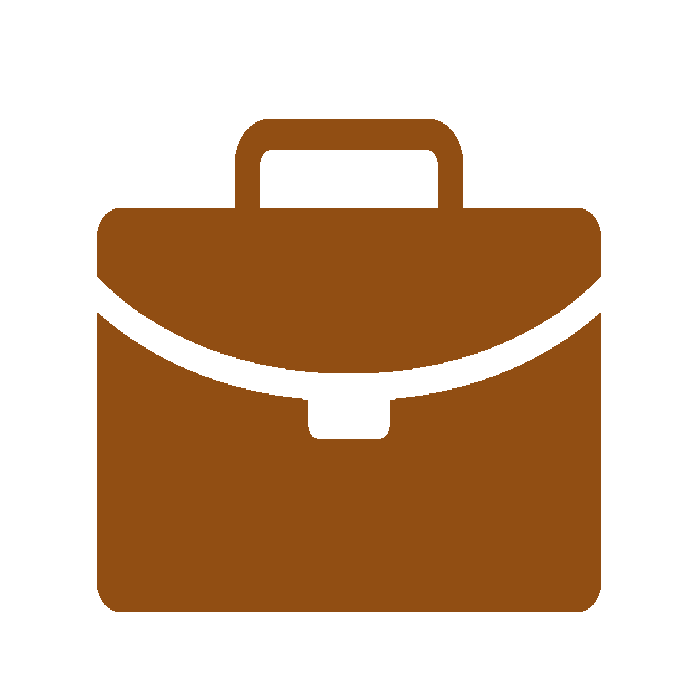
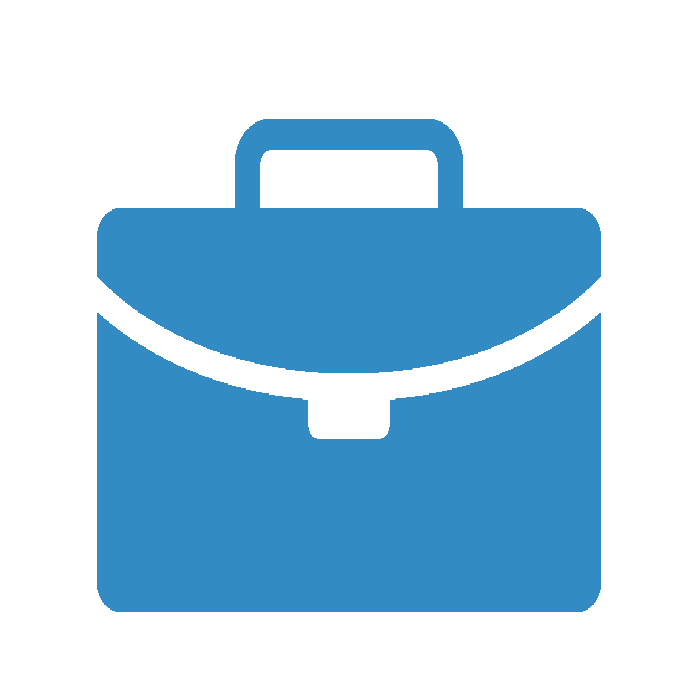
changement de couleurs en cours

diff --git a/css/style.css b/css/style.css
@@ -1,12 +1,28 @@
-body{
-    font-family: 'Lato', sans-serif;
-    height: 100vh;
-}
 html{
     scroll-behavior: smooth;
 }
 *{
     box-sizing: border-box;
+}
+:root{
+    --text-color: #fbfefd;
+    --background-color: #1f2531;
+    --lightgrey-color:#2A303C;
+    --yelow-color: #d9b311;
+    --midyelow1-color: #d9b41171;
+    --midyelow2-color: #d9b41188;
+    --lowyelow-color: #d9b41118;
+    --darkerblue-color:#0b3c5d;
+    --ligtherblue-color:#328bc3;
+    --border-radius: 6px;
+}
+body{
+    font-family: 'Inter', sans-serif;
+    color: var(--text-color);
+    height: 100vh;
+}
+a{
+    color: var(--text-color);
 }
 #map {
     margin-top: 30px;
@@ -18,7 +34,7 @@ div#wrapper{
     height: 100vh;
     display: flex;
     justify-content: center;
-    background: linear-gradient(160deg, rgb(2, 2, 44), rgb(94, 69, 40));
+    background: var(--background-color);
 }
 ::-webkit-scrollbar{
     width: 10px;
@@ -33,9 +49,6 @@ div#wrapper{
 }
 ::-webkit-scrollbar-thumb:hover {
     background: #555;
-}
-.flex{
-    display: flex;
 }
 /*----------------------------------------------Container------------------------------------*/
 
@@ -56,8 +69,9 @@ div.container{
 header.header{
     width: 4.5rem;
     height: 20rem;
-    background-color: aliceblue;
-    border-radius: 5px;
+    background-color: var(--lowyelow-color);
+    border: 1px solid var(--darkerblue-color);
+    border-radius: var(--border-radius);
     z-index: 6;
     display: flex;
     justify-content: center;
@@ -92,7 +106,7 @@ header .header_list-link{
     background-repeat: no-repeat;
     background-position: center 40%;  
     text-transform: uppercase;
-    filter: grayscale(100%);
+    /* filter: grayscale(100%); */
     font-size: 0.6em;
 }
 header .header_list-link>p{
@@ -103,11 +117,11 @@ header .header_list-link>p{
 }
 header .header_list-activ{
     filter: none;
-    color: #bd6604;
+    color: var(--yelow-color);
 }
 header .header_list-link:hover{
     filter: none;
-    color: #bd6604;
+    color: var(--yelow-color);
 }
 header .header_list .border{
     border-top:1px solid ;
@@ -131,9 +145,7 @@ header .resume_bg{
     position: relative;
     width: 38%;
     height: 100%;
-    border-radius: 5px;
-    box-shadow: -16px -16px rgb(84, 90, 85);
-    background-color: #ddd;
+    /* box-shadow: -8px -16px rgb(84, 90, 85); */
     font-size: 1rem;
 }
 #profil .profil_wrapper{
@@ -146,7 +158,9 @@ header .resume_bg{
     flex-direction: column;
     align-items: center;
     justify-content: center;
-    box-shadow: 5px 0px 20px rgba(158, 158, 158, 0.4);
+    background-color: var(--lightgrey-color);
+    border-radius: var(--border-radius);
+    /* box-shadow: 5px 0px 20px rgba(158, 158, 158, 0.4); */
 }
 /* Position de la photo de profil*/
 #profil .profil_picture{
@@ -170,7 +184,7 @@ header .resume_bg{
     height: 70%;
     content: '';
     position: absolute;
-    background: #ddd;
+    background: var(--lightgrey-color);
     transform: rotate(12deg);
     -webkit-transform: rotate(12deg);
 }
@@ -185,7 +199,7 @@ header .resume_bg{
     -webkit-transform: rotate(-8deg);
     content: '';
     position: absolute;
-    background: #ddd;
+    background: var(--lightgrey-color);
 }
 /*Bloc qui gère le texte sous la photo de profil*/
 #profil .profil_text{
@@ -197,9 +211,13 @@ header .resume_bg{
 /* Nom de famille*/
 #profil .title_clem{
     font-size: min(max(20px, 2vw), 2em);
-    font-weight: 500;
+    font-weight: 600;
     margin-bottom: 10px;
-    text-shadow: 1px 2px 2px #c4b2a1, 2px 4px 3px #c4b2a1, 3px 5px 3px #c4b2a1;
+}
+#profil .nom{
+    background: -webkit-linear-gradient(45deg, var(--yelow-color) , var(--ligtherblue-color) );
+    -webkit-background-clip: text;
+    -webkit-text-fill-color: transparent;
 }
 /* Mise en place de le navigation liens sociaux*/
 #profil ul.social_link{
@@ -223,33 +241,19 @@ header .resume_bg{
 }
 #profil .download{
     position: relative;
-    color: black;
     text-decoration: none;
-    padding: 5px;
-    font-size: 1.2em;
-    text-shadow: 1px 2px 2px #c4b2a1, 2px 4px 3px #c4b2a1, 3px 5px 3px #c4b2a1;
+    padding: 10px;
+    font-size: 1.1em;
+    background-color: var(--yelow-color);
+    border-radius: var(--border-radius);
 }
-.transition::before {
-        content: '';
-        position: absolute;
-        width: 100%;
-        height: 2px;
-        border-radius: 2px;
-        background: linear-gradient(90deg, rgb(9, 9, 163), rgb(206, 113, 7));
-        bottom: 0;
-        left: 0;
-        transform-origin: right;
-        transform: scaleX(0);
-        transition: transform .3s ease-in-out;
-      }
-.transition:hover::before {
-      transform-origin: left;
-      transform: scaleX(1);
-    }
-#profil .text-anim{
-    font-weight: 600;
-    color: #925106;
-    text-shadow: 5px 8px 4px #af650fa2,0 -1px 1px #fff;
+.download:hover{
+    transition: transform;
+    transform: var(--background-color);
+}
+.auto-type{
+    /* font-weight: 600; */
+    /* text-shadow: 5px 8px 4px #af650fa2,0 -1px 1px #fff; */
 }
 /*------------------------------------------Contenu de droite-------------------------*/
 
@@ -262,7 +266,7 @@ aside#content{
 section.content_wrapper{
     width: 100%;
     height: 100%;
-    background-color: #d4d4d4;
+    background-color: var(--darkerblue-color);
     border-bottom-right-radius: 5px;
     border-top-right-radius: 5px;
     padding: 15px 15px 15px 30px;
@@ -275,15 +279,12 @@ h3.content_title{
     font-weight: 800;
     border-bottom:1px solid ;
     border-image-slice: 1; 
-    border-image-source:linear-gradient(160deg,  rgb(40, 49, 94, 0.5) , transparent 80%); 
+    border-image-source:linear-gradient(160deg,  var(--ligtherblue-color) , transparent 80%); 
     padding: 20px;
     margin: 0;
-    text-shadow: 1px 2px 2px #c4b2a1, 2px 4px 3px #c4b2a1, 3px 5px 3px #c4b2a1;
-
-
-}
-h3.content_title>span{
-    color: #bd6604;
+    background: -webkit-linear-gradient(10deg, var(--yelow-color), var(--ligtherblue-color), var(--yelow-color) 50%);
+    -webkit-background-clip: text;
+    -webkit-text-fill-color: transparent;
 }
 .content__content{
     display: flex;
@@ -294,14 +295,12 @@ h3.content_title>span{
     align-items: center;
     text-transform: uppercase;
     font-weight: 600;
-    text-shadow: 1px 2px 2px #c4b2a1, 2px 4px 3px #c4b2a1, 3px 5px 3px #c4b2a1;
-
 }
 .article{
     padding-right: 20px;
     border-top:1px solid ;
     border-image-slice: 1; 
-    border-image-source:linear-gradient(160deg, transparent 3%, rgb(40, 49, 94, 0.5) , transparent 25%); 
+    border-image-source:linear-gradient(160deg, var(--ligtherblue-color) , transparent 25%); 
 }
 /*-----------------------Contenu du lien about-----------------*/
 
@@ -389,18 +388,18 @@ section.activ{
 
 .date{
     display: inline-block;
-    border: 1px solid rgba(129, 129, 129, 0.3);
+    border: 1px solid var(--midyelow1-color);
     padding: 0 5px 0 5px;
     margin: 3em 0 0 0;
     border-radius: 5px;
-    color:rgba(129, 129, 129, 0.4) ;
+    color:var(--midyelow1-color) ;
     font-size: 0.8em;
     line-height: 20px;
     font-weight: 500;
 }
 .date_now{
-    color:rgb(189, 102, 4, 0.7) ;
-    border: 1px solid rgb(189, 102, 4, 0.7);
+    color:var(--yelow-color) ;
+    border: 1px solid var(--yelow-color);
 
 }
 .subtitle{
@@ -408,7 +407,7 @@ section.activ{
     margin: 0.5em 0 0 0;
 }
 .brand{
-    color: gray;
+    color: var(--midyelow2-color);
     margin-top: 0;
     font-size: 0.8em;
 }
@@ -454,7 +453,7 @@ ul.liste li{
 ul.liste li::marker{
     font-size: 20px;
     font-weight: 600;
-    color: rgb(189, 102, 4, 0.7);
+    color:  var(--yelow-color);
 }
 
 ul.langue_liste{
@@ -472,7 +471,7 @@ ul.langue_liste li{
 
 ul.langue_liste>li::marker{
     font-size: 40px;
-    color:  rgb(189, 102, 4, 0.7);
+    color:  var(--yelow-color);
     margin-right: 0px;
 }
 ul.langue_liste li:last-child::marker{

diff --git a/index.html b/index.html
@@ -9,6 +9,7 @@
     <link rel="preconnect" href="https://fonts.googleapis.com">
     <link rel="preconnect" href="https://fonts.gstatic.com" crossorigin>
     <link href="https://fonts.googleapis.com/css2?family=Lato&display=swap" rel="stylesheet">
+    <link href="https://fonts.googleapis.com/css2?family=Inter:wght@500&display=swap" rel="stylesheet">
     <script src="https://polyfill.io/v3/polyfill.min.js?features=default"></script>
     <script type="module" src="./App/index.js"></script>
     
@@ -47,7 +48,7 @@
                 <div class="profil_wrapper">
                     <div class="profil_picture"></div>
                         <div class="profil_text">
-                            <h2 class="title_clem">Clément Jamgotchian</h2>   
+                            <h2 class="title_clem">Clément <span class="nom">Jamgotchian</span></h2>   
                             <p class="text-anim">Développeur <span class="auto-type"></span></p>
                             <ul class="social_link">
                                 <li><a href="https://github.com/Clement-Jamgotchian"><img src="/img/github.png" alt="Le logo du réseau Github" class="bg_link"></a></li>
@@ -66,7 +67,7 @@
                 <section class="content_wrapper about" id="about">
                     <section class="content__content">
                         <div>
-                            <h3 class="content_title"><span>About</span> Me</h3>
+                            <h3 class="content_title">About Me</h3>
                             <div class="about_me">
                                 <div style="width:50%"">
                                     <p>Bonjour et bienvenue ! 
@@ -105,7 +106,7 @@
                 <section class="content_wrapper resume activ" id="resume">
                     <section class="content__content">
                         <div>
-                            <h3 class="content_title"><span>R</span>esume</h3>
+                            <h3 class="content_title">Resume</h3>
                             <div class="content__resume">
                                 <div class="content__resume-div">
                                     <h4 class="title_h4-upper"><img src="/img/bagage.png" style="width: 25px; margin-right: 10px;"></img>Expérience</h4>
@@ -247,7 +248,7 @@
                 <section class="content_wrapper works" id="works"></section>
                 <section class="content_wrapper contact" id="contact">
                     <section class="content__content">
-                        <h3 class="content_title"><span>C</span>ontact</h3>
+                        <h3 class="content_title">Contact</h3>
                             <div id="map"></div>
                             <div class="testing">
                                 <ul>
